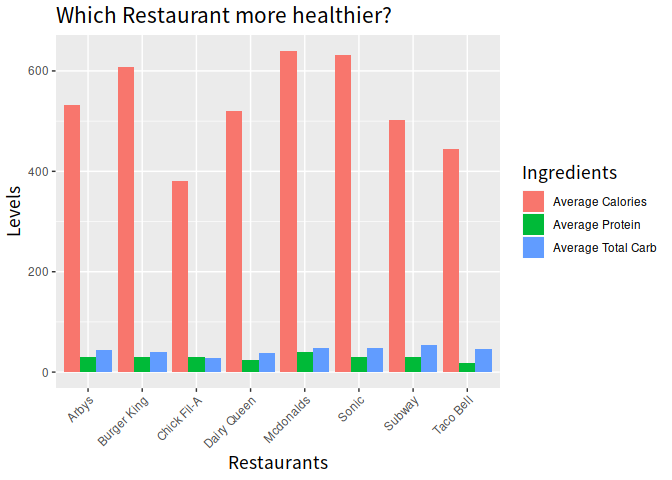
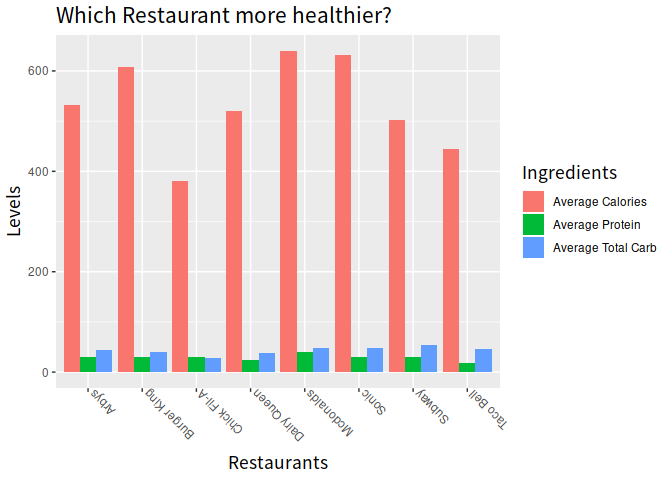
change plots

diff --git a/codes/data_week_21_fastfood_Analysis.md b/codes/data_week_21_fastfood_Analysis.md
@@ -189,7 +189,7 @@ p2 +
   labs(x = "Restaurants", y="Levels", title = "Which Restaurant more healthier?")+
   scale_fill_discrete(labels = c("Average Calories", "Average Protein", "Average Total Carb"))+
   theme(title = element_text(family = "WenQuanYi", size = 13),
-        axis.text.x = element_text(angle =45, hjust = 1))
+        axis.text.x = element_text(angle =135, hjust = 1))
 ```
 
 ![](data_week_21_fastfood_Analysis_files/figure-markdown_github/unnamed-chunk-2-1.png)
